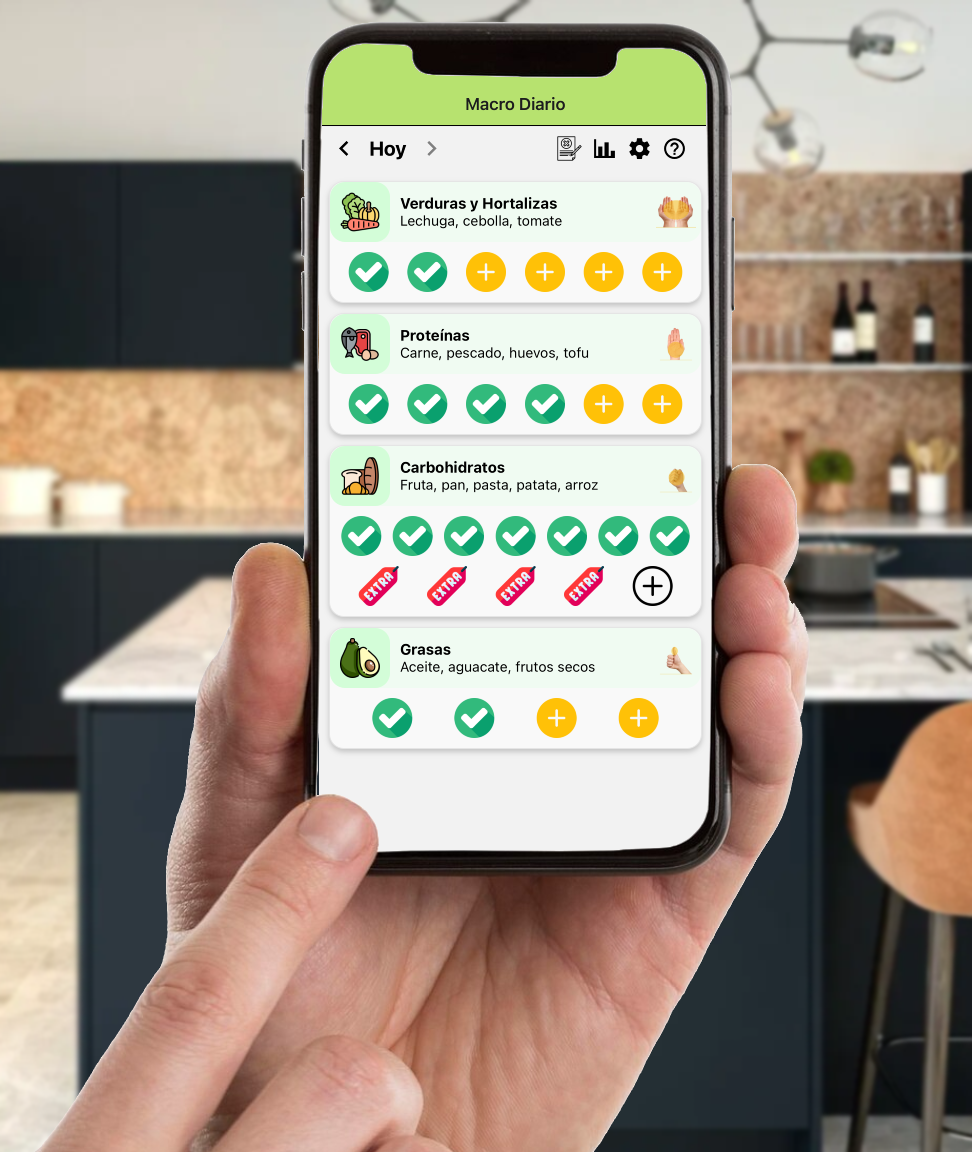
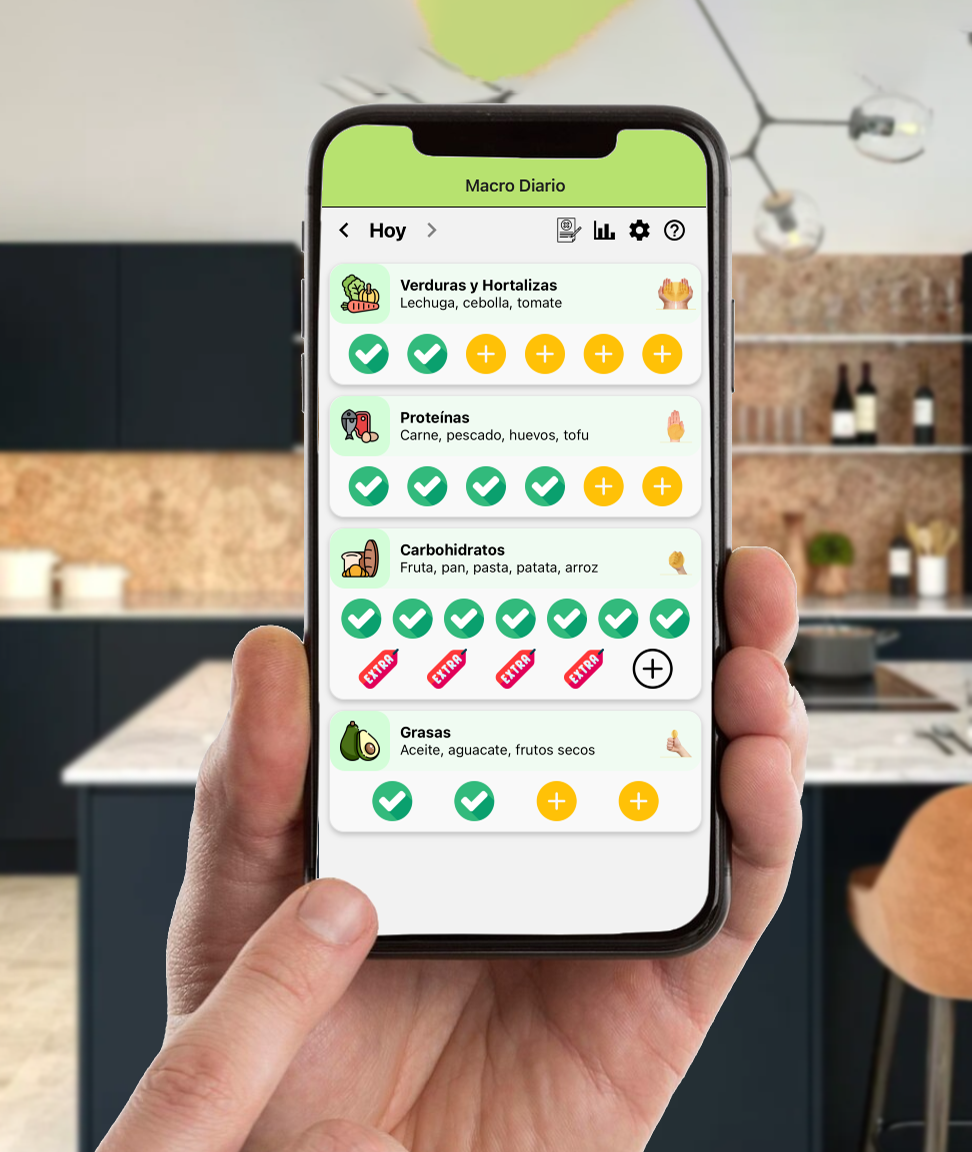
final update

diff --git a/index.html b/index.html
@@ -230,7 +230,7 @@
         <div class="row align-items-center">
           <div class="col-md-6 mt-4 wow fadeInLeft">
             <div class="app_info_img text-end top-spance">
-              <img class="img-fluid" src="assets/images/Cambiaa.png" alt="Cambiaa">
+              <img class="img-fluid" src="assets/images/instructions-3.png" alt="Cambiaa">
             </div>
           </div>
           <div class="col-md-6 mt-4">
